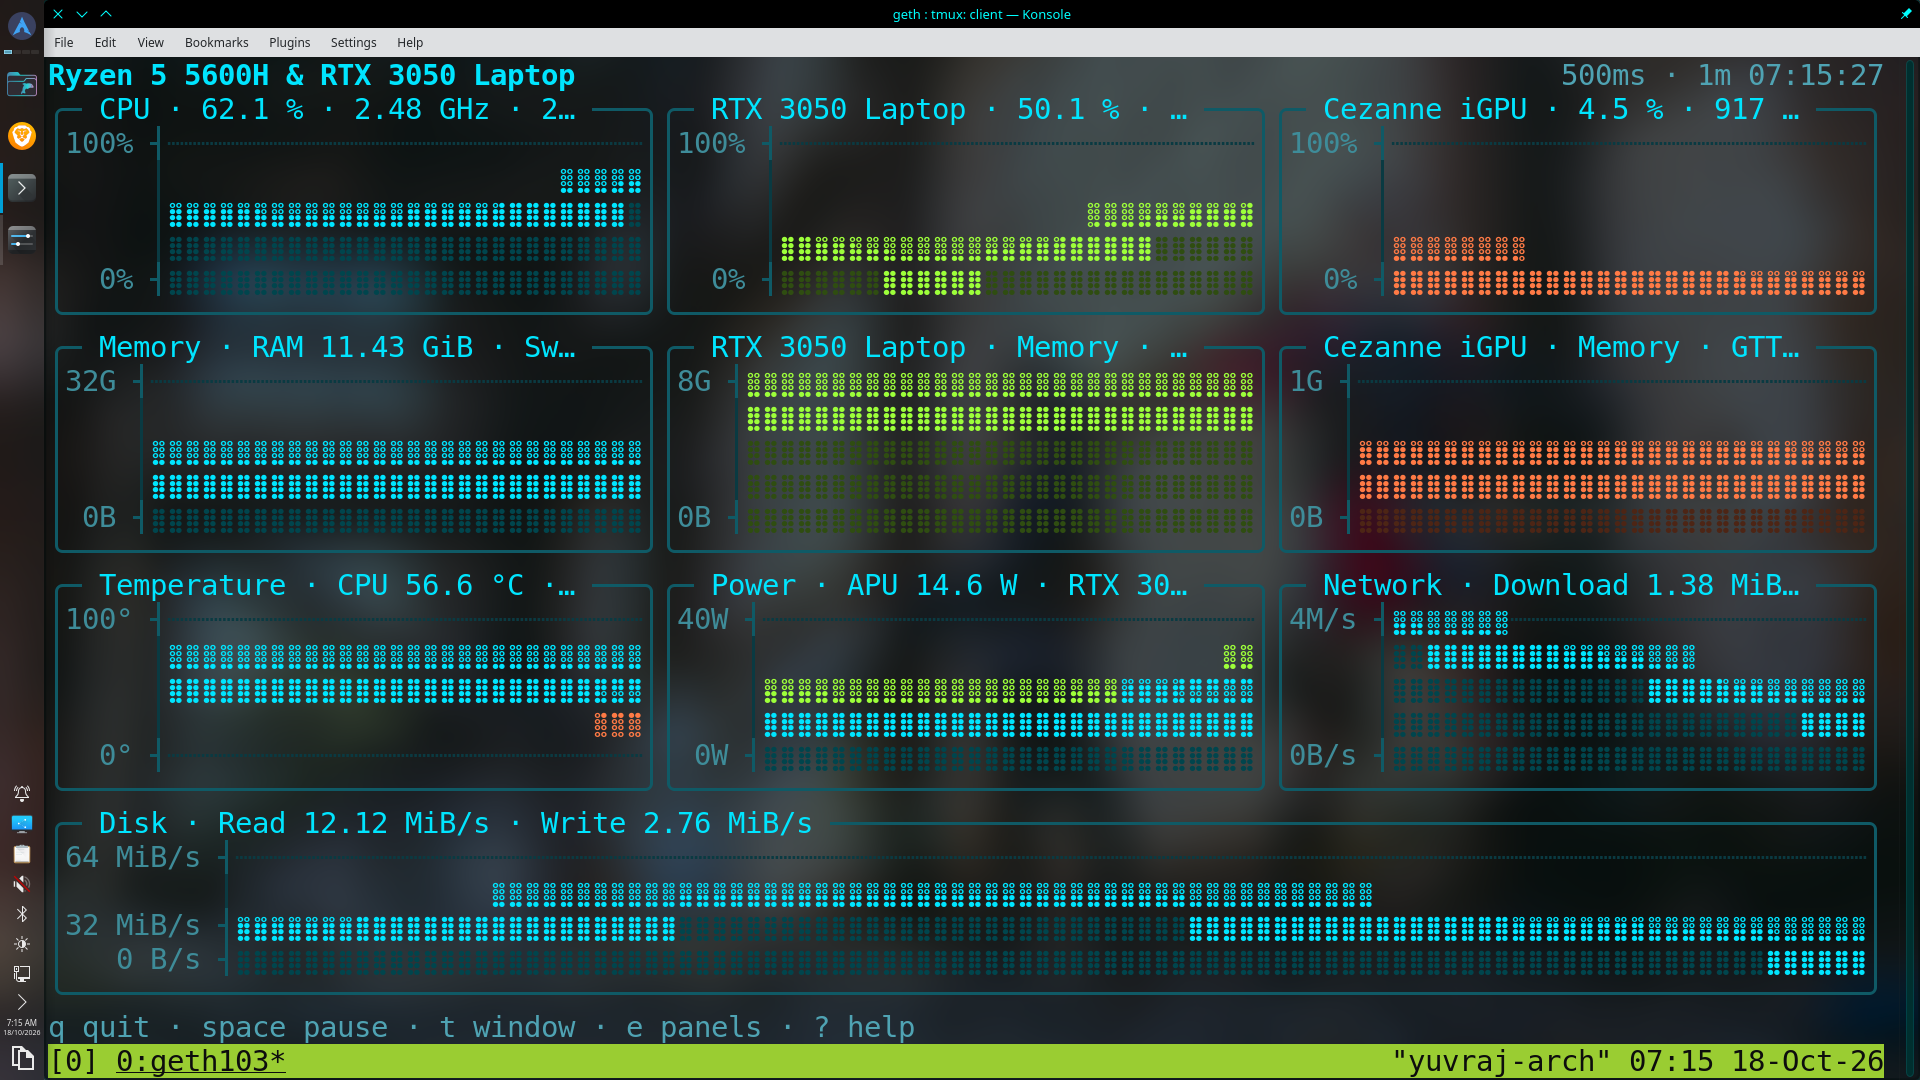
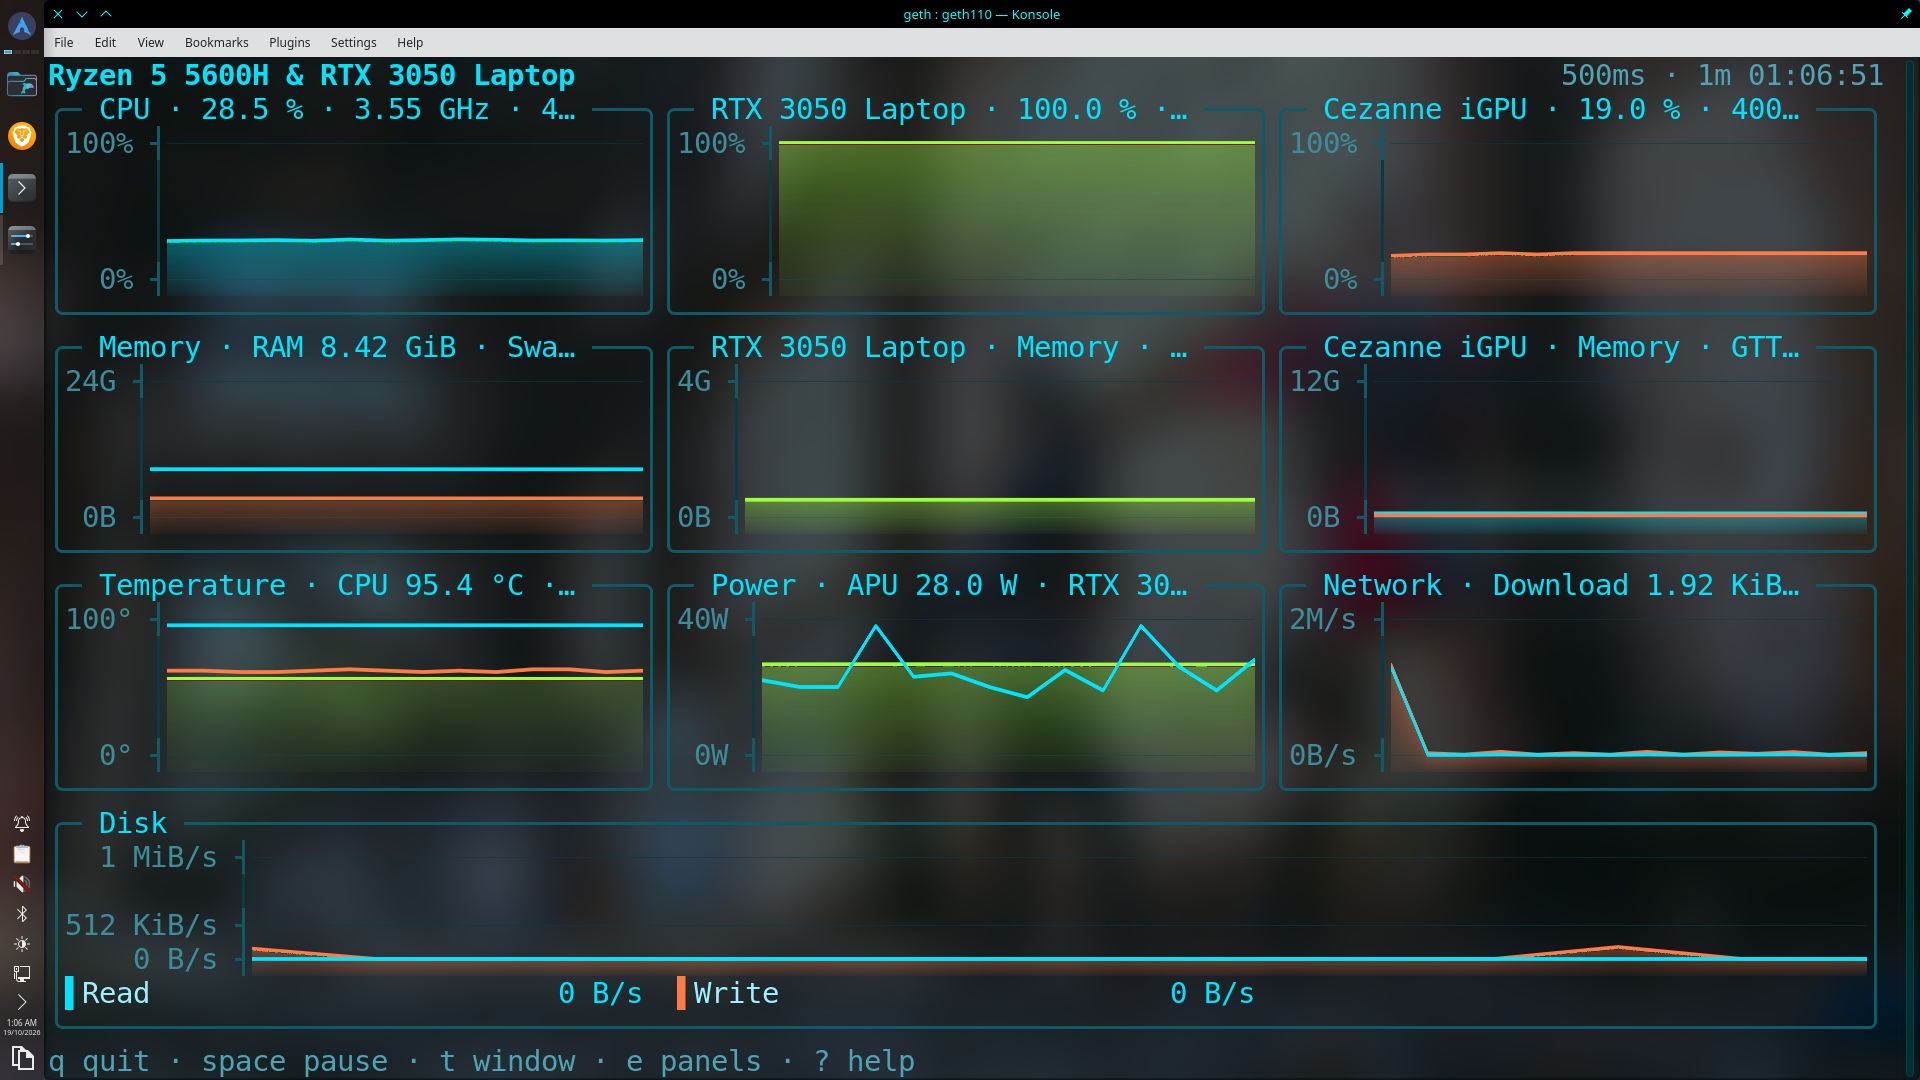
GETH v1.1.0 Part 8 — README screenshots: live pixel-renderer captures
Recaptured the README gallery from a maximized Konsole window
(1920x1080, Spectacle) showing real hardware data, no --demo:
- theme + layout shots (7): pixel renderer over Konsole's Kitty
  graphics protocol. geth runs directly in konsole, no tmux —
  tmux 3.8 does not forward the Kitty APC (verified offline), so
  through tmux the renderer would degrade to sixel.
- panel manager + help (2): text renderer (the overlays replace the
  charts with text lists), driven by a pty relay with FIFO key
  feeding — no tmux client, whose startup kitty-keyboard query
  triggers konsole's persistent unprintable-characters
  notification in the capture corner.
- style-blocks.png removed (the blocks style is gone).

Grid sizes updated: 205x56 themes/manager/help, 230x68 wide,
108x30 narrow, 83x23 compact. README Screenshots section and the
docs/DEVELOPMENT.md capture recipe updated; the v1.1.0 CHANGELOG
screenshots entry corrected (two text images, not one).

diff --git a/README.md b/README.md
@@ -91,10 +91,14 @@ dependencies are fetched by CMake and pinned to exact versions (see
 
 ## Screenshots
 
-Live captures from a Konsole window running `geth --demo` on a 1920×1080
-screen. Cell sizes: 205×58 (themes, manager, help), 236×71 (wide),
-111×31 (narrow), 85×25 (compact). For CI-style static frames, see
-`--render-frame`, `--render-png` and `tools/frame2png.py` in
+Live captures from a maximized Konsole window (1920×1080) showing real
+hardware data from the dev machine (Ryzen 5 5600H, Cezanne iGPU, RTX 3050
+Laptop). The theme and layout shots use the pixel renderer — smooth
+anti-aliased charts sent over Konsole's Kitty graphics protocol; the panel
+manager and help shots use the text renderer, because the overlays replace
+the charts with text lists. Grid sizes: 205×56 (themes, manager, help),
+230×68 (wide), 108×30 (narrow), 83×23 (compact). For CI-style static
+frames, see `--render-frame`, `--render-png` and `tools/frame2png.py` in
 [docs/DEVELOPMENT.md](docs/DEVELOPMENT.md).
 
 | Cyberpunk Blue (default) | Matrix Green |
@@ -109,7 +113,7 @@ screen. Cell sizes: 205×58 (themes, manager, help), 236×71 (wide),
 |---|---|
 | ![panel manager](docs/screenshots/panel-manager.png) | ![help](docs/screenshots/help.png) |
 
-| Wide (236×71) | Narrow (111×31) | Compact (85×25) |
+| Wide (230×68) | Narrow (108×30) | Compact (83×23) |
 |---|---|---|
 | ![wide](docs/screenshots/wide-layout.png) | ![narrow](docs/screenshots/narrow-layout.png) | ![compact](docs/screenshots/compact.png) |
 

diff --git a/docs/DEVELOPMENT.md b/docs/DEVELOPMENT.md
@@ -176,9 +176,11 @@ python3 tools/measure_pixel_perf.py build-rel/geth 70x250 30
 Screenshots: `tools/frame2png.py` renders a `--render-frame --ansi` capture
 to a PNG on an exact cell grid (DejaVu Sans Mono, truecolor, procedural dark
 gradient background) — useful for CI and layout debugging. The README
-gallery is live captures instead: `geth --demo` running in a Konsole window,
-shot with Spectacle on a 1920×1080 screen (205×58 for the theme/manager/
-help shots, 236×71 wide, 111×31 narrow, 85×25 compact).
+gallery is live captures instead: geth in a maximized Konsole window with
+real hardware data, shot with Spectacle on a 1920×1080 screen — theme and
+layout shots in the pixel renderer, panel manager and help in the text
+renderer (205×56 for the theme/manager/help shots, 230×68 wide, 108×30
+narrow, 83×23 compact).
 
 ## Collecting a support report
 

diff --git a/CHANGELOG.md b/CHANGELOG.md
@@ -77,8 +77,10 @@ probe (canned replies: Kitty, Sixel-only, no reply, tmux).
 
 ### Screenshots
 
-The README gallery was recaptured with the new renderers (pixel captures
-in Konsole, one image text). `style-blocks.png` is removed.
+The README gallery was recaptured live in Konsole with real hardware
+data: theme and layout shots in the pixel renderer (Kitty graphics
+protocol), panel manager and help in the text renderer (the overlays
+replace the charts with text lists). `style-blocks.png` is removed.
 
 ## 1.0.3 — CPU power fix, line visibility, theme palettes (2026-10-18)
 
